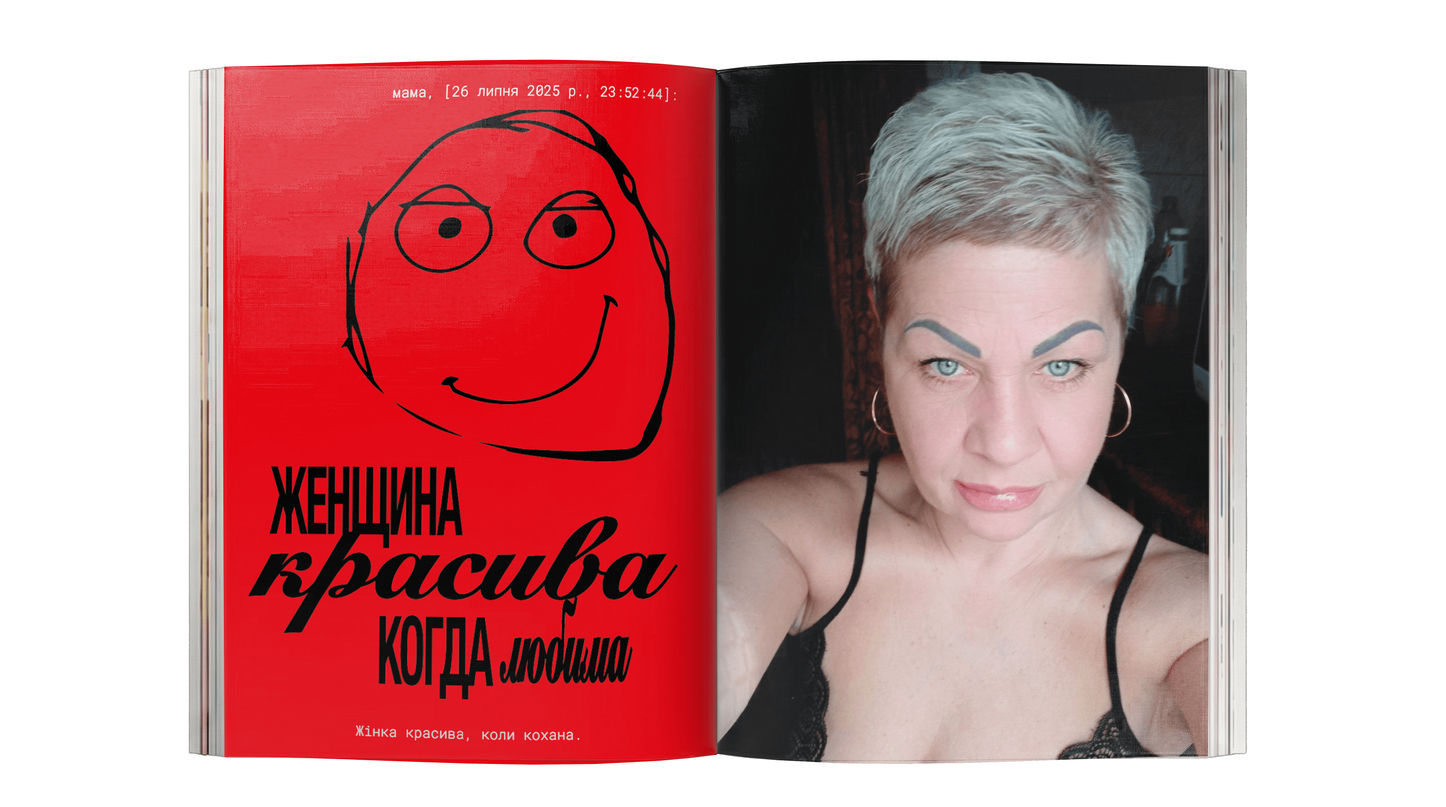
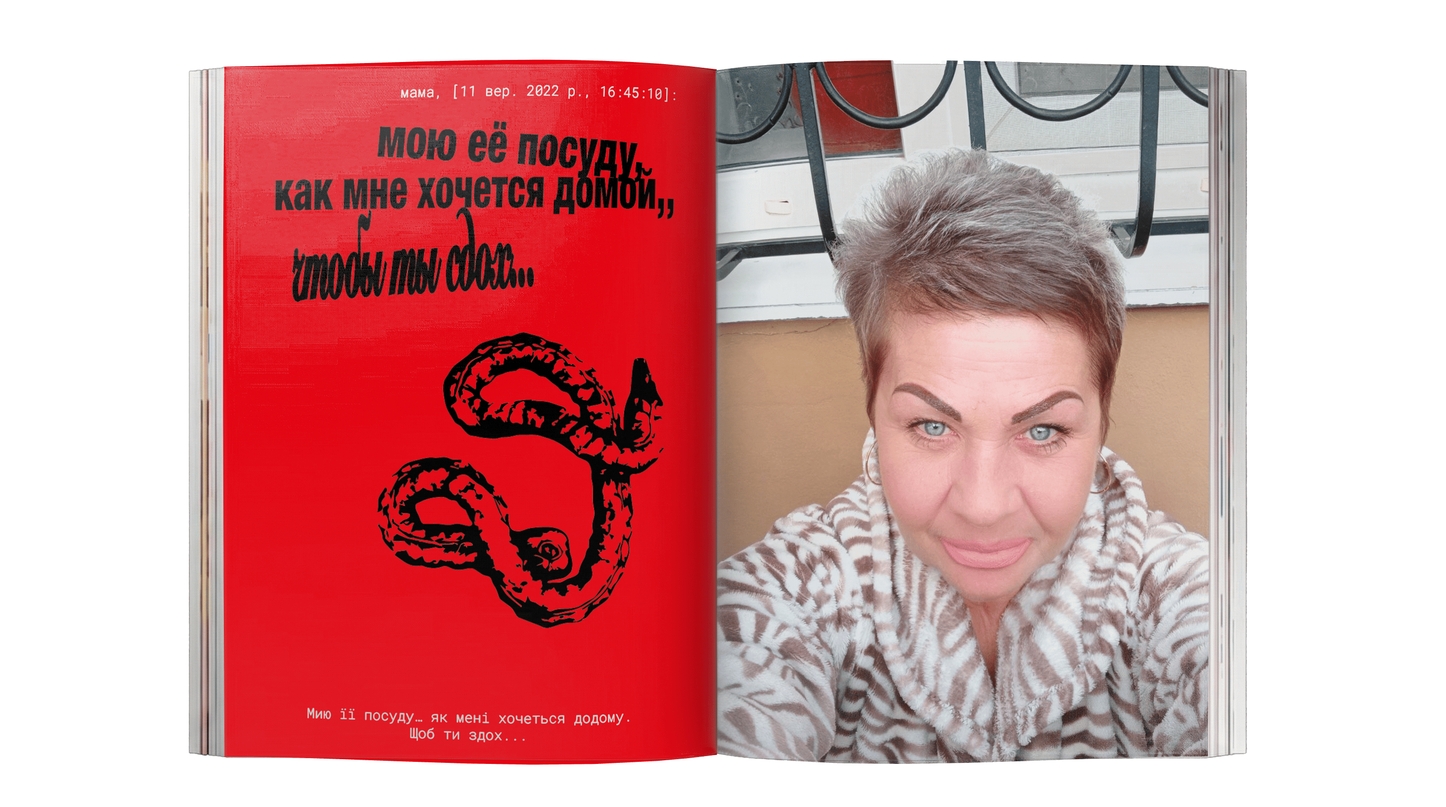
5

diff --git a/publishing/mama/index.html b/publishing/mama/index.html
@@ -94,6 +94,16 @@
 
    <div id="bug-overlay"></div>
 
+   <div id="fs-overlay" class="hidden md:hidden fixed inset-0 bg-black/80 z-[200] flex justify-center items-center p-4 cursor-pointer" onclick="this.classList.add('hidden')">
+       <img id="fs-img" src="" class="max-w-full max-h-full object-contain">
+   </div>
+
+   <div class="flex md:hidden fixed top-0 right-0 z-[110] items-start">
+       <img src="./stickers.png" alt="Stickers" class="w-[80px] h-[50px] object-contain border-b border-l border-white/20 bg-white/10 cursor-pointer" onclick="document.getElementById('fs-img').src=this.src; document.getElementById('fs-overlay').classList.remove('hidden');">
+       <img src="./book 1.png" alt="Book 1" class="w-[80px] h-[50px] object-cover border-b border-l border-white/20 cursor-pointer" onclick="document.getElementById('fs-img').src=this.src; document.getElementById('fs-overlay').classList.remove('hidden');">
+       <img src="./book 3.png" alt="Book 3" class="w-[80px] h-[50px] object-cover border-b border-l border-white/20 cursor-pointer" onclick="document.getElementById('fs-img').src=this.src; document.getElementById('fs-overlay').classList.remove('hidden');">
+   </div>
+
    <div class="book-wrapper relative w-full h-[65vh] md:absolute md:top-0 md:left-0 md:w-full md:h-full flex-shrink-0 md:-translate-x-8 md:-translate-y-[3%] md:[clip-path:inset(0_350px_0_0)]" style="z-index: 100; pointer-events: none;">
        <div id="scene-container" class="w-full h-full scale-[0.90] md:scale-100"></div>
    </div>
@@ -153,7 +163,7 @@
                    </div>
                </div>
            </div>
-           <div class="absolute bottom-0 left-0 w-full h-[50px] bg-gradient-to-t from-[#D9D9D9] to-transparent pointer-events-none"></div>
+           <div class="absolute bottom-[-2px] left-0 w-full h-[80px] bg-gradient-to-t from-[#D9D9D9] via-[#D9D9D9]/80 to-transparent pointer-events-none"></div>
        </div>
 
        <div class="flex w-full gap-[5px] mt-auto shrink-0">
@@ -234,23 +244,23 @@
 
    </div>
 
-   <div class="hidden md:flex fixed bottom-0 left-0 z-50 items-end">
+   <div class="hidden md:flex fixed bottom-0 left-0 z-[110] items-end">
        <div class="group cursor-pointer relative">
-           <img src="./book 1.png" alt="Book 1" class="w-[112px] h-[70px] object-cover">
-           <div class="fixed bottom-[70px] left-0 hidden group-hover:block z-50 pointer-events-none origin-bottom-left">
+           <img src="./stickers.png" alt="Stickers" class="w-[112px] h-[70px] object-contain border-r border-t border-white/20 bg-white/10">
+           <div class="fixed bottom-[70px] left-0 hidden group-hover:block z-[120] pointer-events-none origin-bottom-left">
+               <img src="./stickers.png" alt="Stickers Full" class="max-h-[85vh] max-w-[70vw] object-contain drop-shadow-2xl">
+           </div>
+       </div>
+       <div class="group cursor-pointer relative">
+           <img src="./book 1.png" alt="Book 1" class="w-[112px] h-[70px] object-cover border-r border-t border-white/20">
+           <div class="fixed bottom-[70px] left-[112px] hidden group-hover:block z-[120] pointer-events-none origin-bottom-left">
                <img src="./book 1.png" alt="Book 1 Full" class="max-h-[85vh] max-w-[70vw] object-contain drop-shadow-2xl">
            </div>
        </div>
        <div class="group cursor-pointer relative">
-           <img src="./book 3.png" alt="Book 3" class="w-[112px] h-[70px] object-cover border-l border-white/20">
-           <div class="fixed bottom-[70px] left-0 hidden group-hover:block z-50 pointer-events-none origin-bottom-left">
+           <img src="./book 3.png" alt="Book 3" class="w-[112px] h-[70px] object-cover border-r border-t border-white/20">
+           <div class="fixed bottom-[70px] left-[224px] hidden group-hover:block z-[120] pointer-events-none origin-bottom-left">
                <img src="./book 3.png" alt="Book 3 Full" class="max-h-[85vh] max-w-[70vw] object-contain drop-shadow-2xl">
-           </div>
-       </div>
-       <div class="group cursor-pointer relative">
-           <img src="./stickers.png" alt="Stickers" class="w-[112px] h-[70px] object-cover border-l border-white/20">
-           <div class="fixed bottom-[70px] left-0 hidden group-hover:block z-50 pointer-events-none origin-bottom-left">
-               <img src="./stickers.png" alt="Stickers Full" class="max-h-[85vh] max-w-[70vw] object-contain drop-shadow-2xl">
            </div>
        </div>
    </div>
